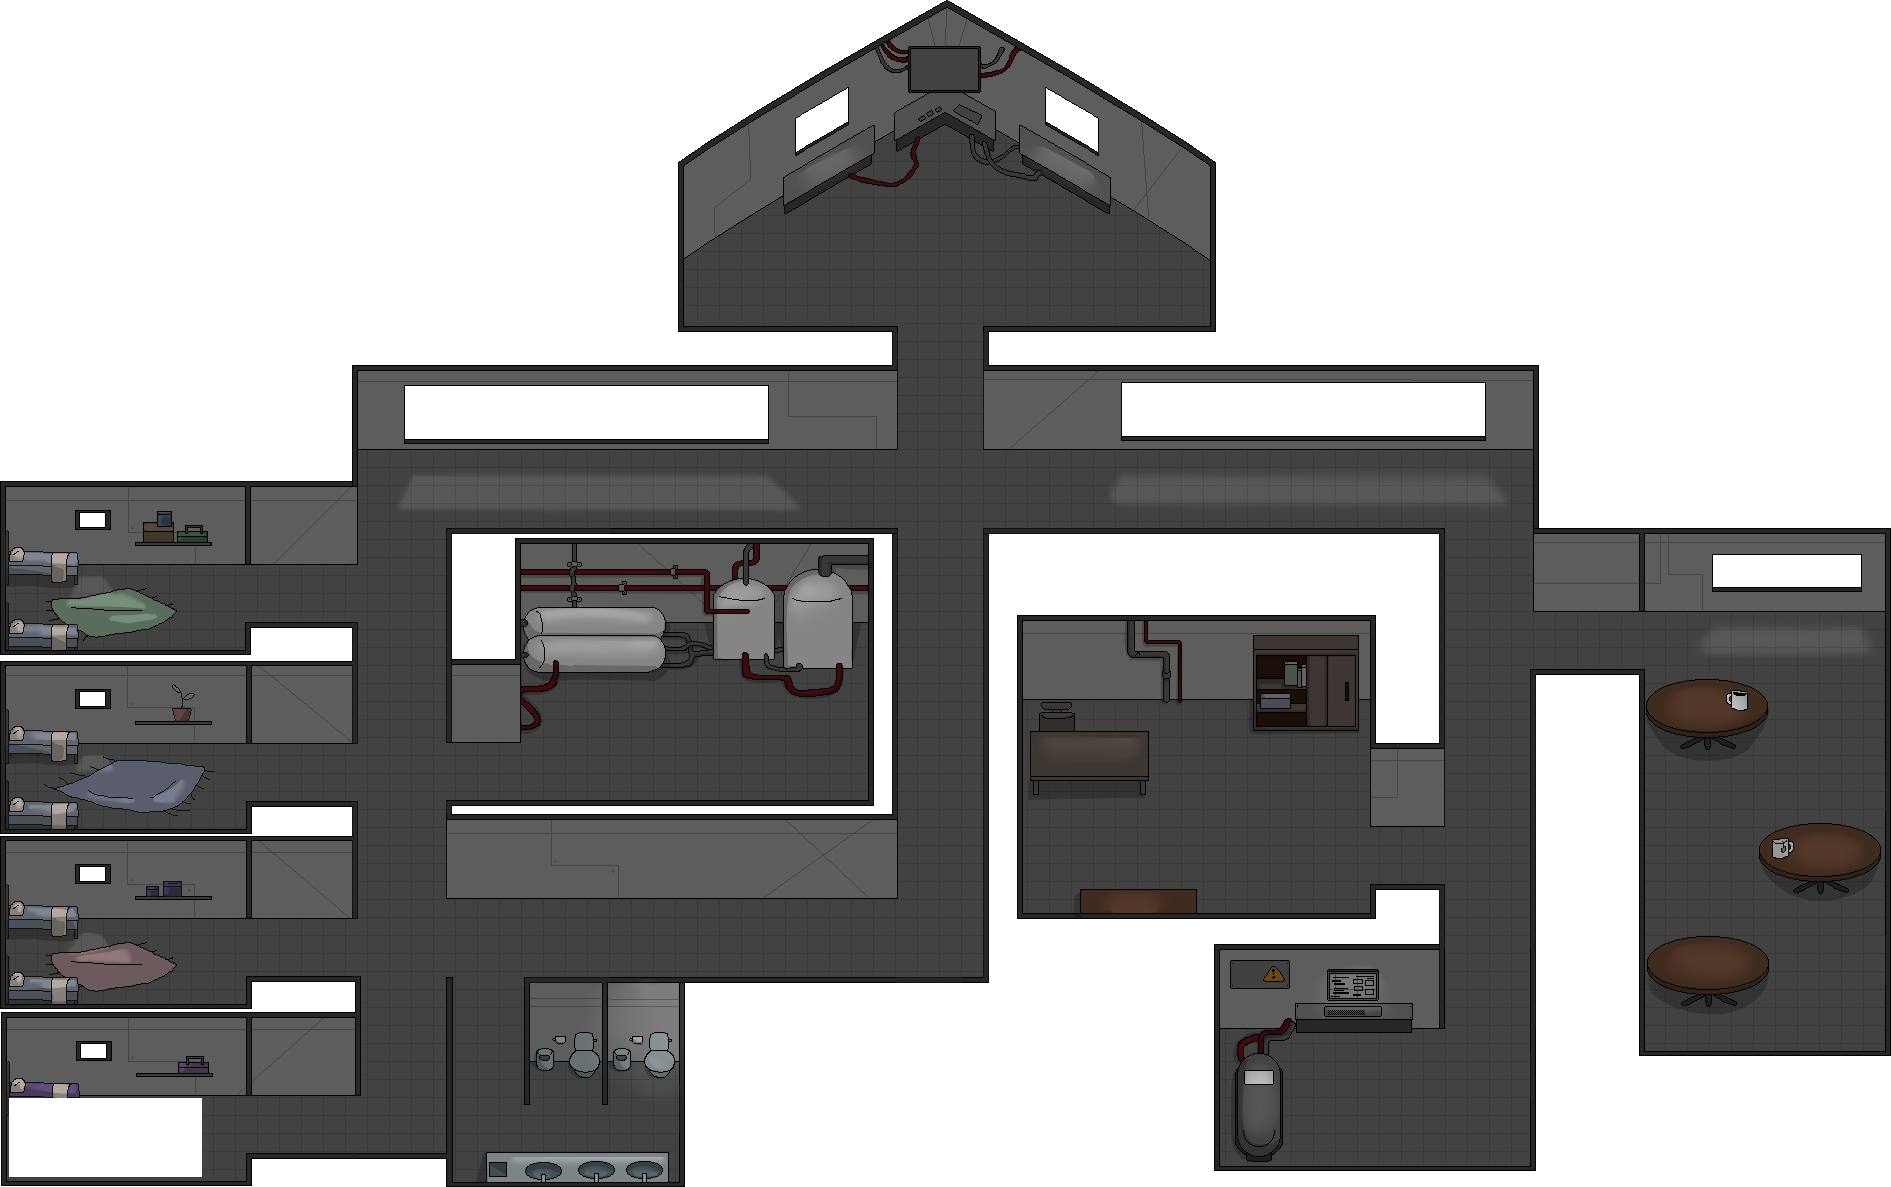
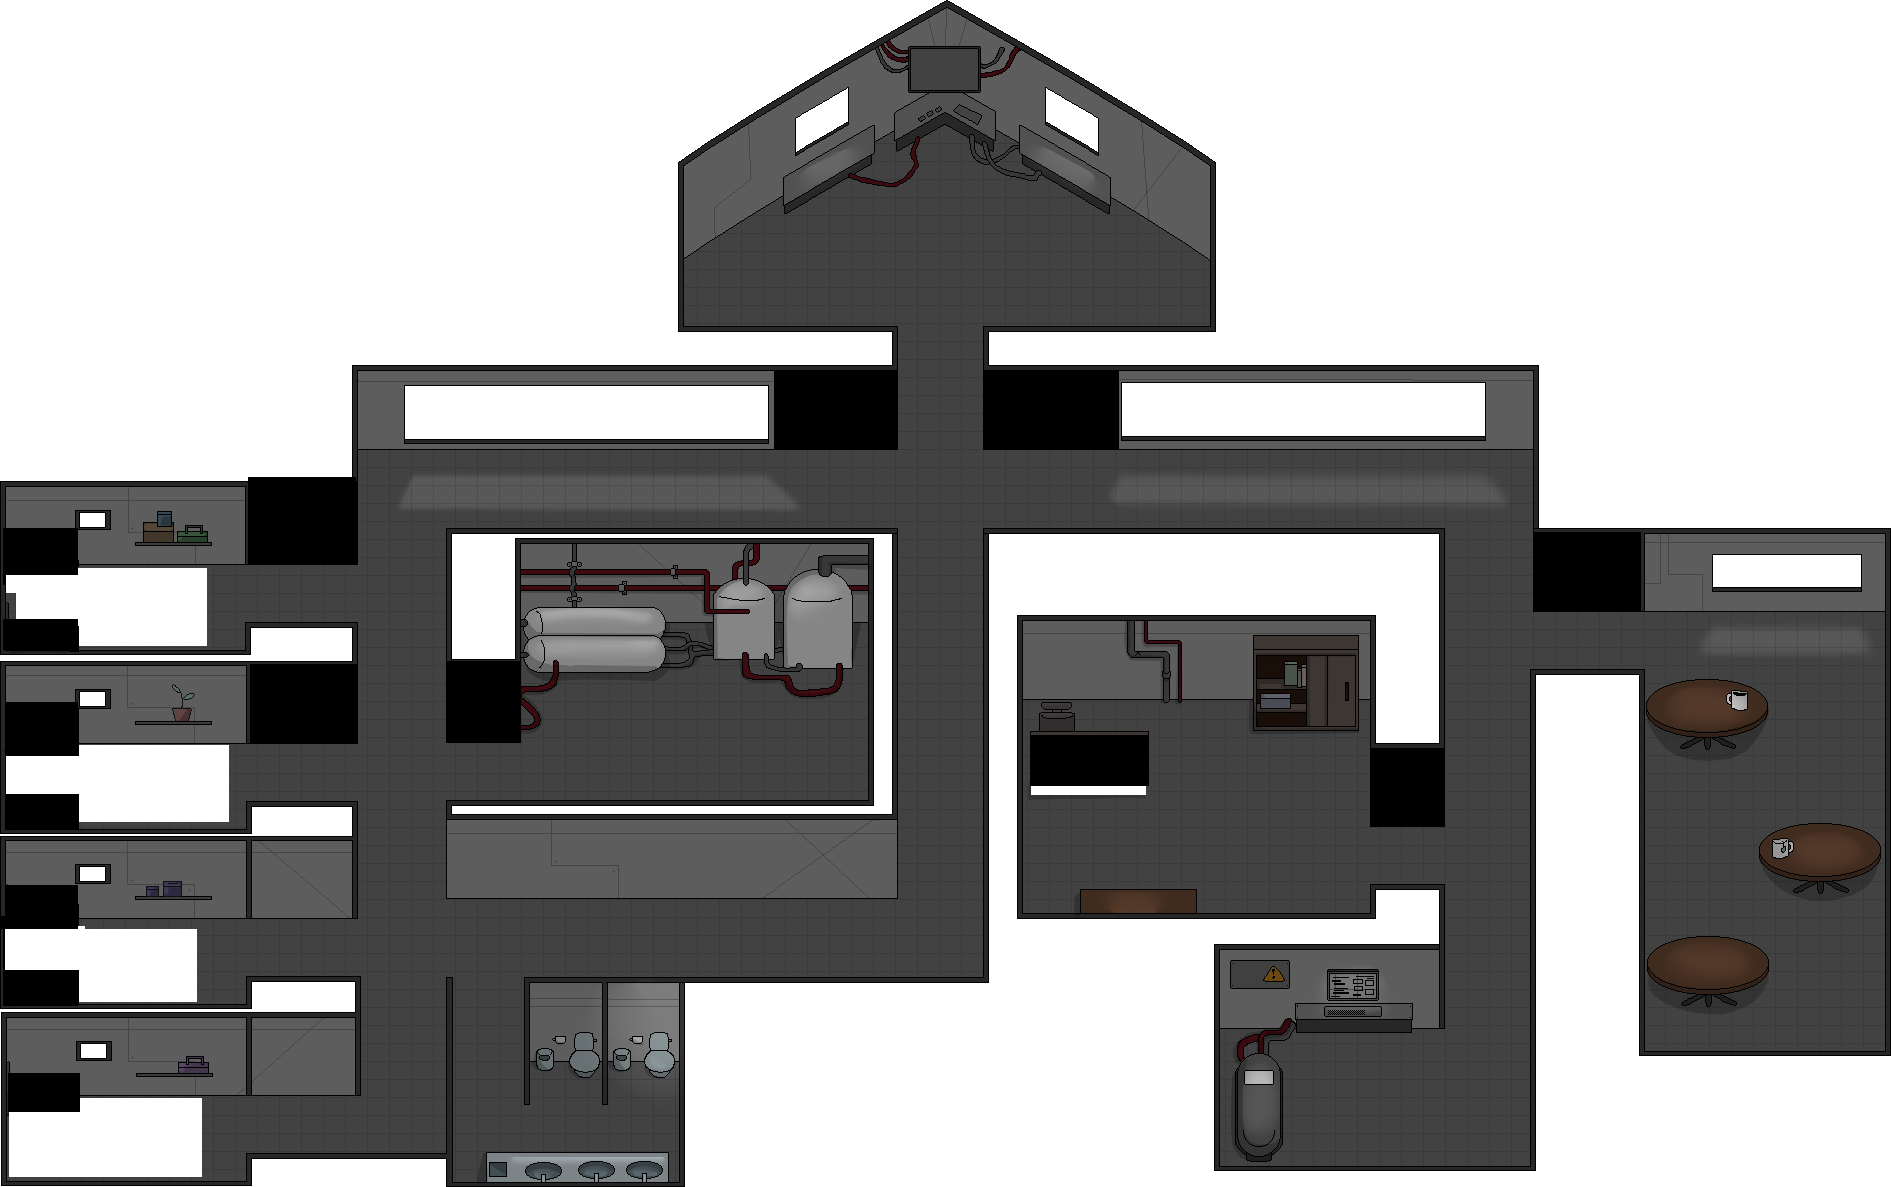
feat: mapa de colisao melhorado, colisao dos inimigos com mapa

diff --git a/src/interno/entidades/inimigos/Smilinguido/Smilinguido.cpp b/src/interno/entidades/inimigos/Smilinguido/Smilinguido.cpp
@@ -1,6 +1,7 @@
 #include "Smilinguido.hpp"
 #include "../../protagonista/protagonista.hpp"
 #include "../../../sistemas/globais.hpp"
+#include "../../../cenario/mapa.hpp"
 #include "raymath.h"
 
 Smilinguido::Smilinguido(double max, double regen, double infec, double dano)
@@ -34,8 +35,15 @@ Smilinguido::Smilinguido(double max, double regen, double infec, double dano)
             Rectangle{0,0,64,64}
         };
         AnimacaoAtual = andarBaixo;
+
+        setCaixaColisao(Rectangle{20,48,28,16});
     }
 
+void Smilinguido::Seguir(Vector2 pos){
+    Inimigo::Seguir(pos);
+
+    // FICAR STUNNED QUANDO BATER NA PAREDE
+}
 
 void Smilinguido::Ataque(){
     if(getEstado() != ATACANDO){
@@ -55,16 +63,16 @@ void Smilinguido::Update(){
 
     if(getEstado() == ATACANDO){
         setVelocidade(getVelocidade() + .2f);
-        setPosicao(getPosicao() + GetDir()* velocidade);
+        Inimigo::Seguir(getPosicao() + GetDir() * velocidade);
     }else if(getEstado() != ATACANDO){
         setVelocidade(GetMaxVelocidade());
     }
     
     if(getEstado() == ANDANDO){
-        Inimigo::SeguirPlayer(player);
+        Inimigo::Seguir(player->getPosicao());
     }
 
-    if(Vector2Distance(player->getPosicao(), getPosicao()) < 200.0f){
+    if(Vector2Distance(player->getPosicao(), getPosicao()) < 150.0f){
         Ataque();
     }else{
         setEstadoPor(ANDANDO,0);

diff --git a/src/interno/entidades/inimigos/Inimigos.cpp b/src/interno/entidades/inimigos/Inimigos.cpp
@@ -24,15 +24,16 @@ void Inimigo::Morrer(){
     // Globais::Inimigos.erase(remove(Globais::Inimigos.begin(), Globais::Inimigos.end(), this));
 }
 
-void Inimigo::SeguirPlayer(Protagonista *player)
+void Inimigo::Seguir(Vector2 pos)
 {
-    Vector2 seguindoPlayer = Vector2MoveTowards(getPosicao(), player->getPosicao(), velocidade);
+    Vector2 seguindoPlayer = Vector2MoveTowards(getPosicao(), pos, velocidade);
     Vector2 offset = Vector2Subtract(seguindoPlayer, getPosicao());
     if(!Mapa::estaCollidindo(offset, getCaixaColisao())){
         setPosicao(seguindoPlayer);
     }
+    
     // Mudar animação de acordo com sa posição do player
-    Vector2 Offset = Vector2Subtract(player->getPosicao(), getPosicao());
+    Vector2 Offset = Vector2Subtract(pos, getPosicao());
 
     if (Offset.x > 0.0f)
     {

diff --git a/src/interno/entidades/inimigos/Tripulante/Tripulante.cpp b/src/interno/entidades/inimigos/Tripulante/Tripulante.cpp
@@ -39,7 +39,7 @@ Tripulante::Tripulante(double max, double regen, double infec, double dano)
         };
         AnimacaoAtual = andarBaixo;
 
-        setCaixaColisao(Rectangle{0,32,64,32});
+        setCaixaColisao(Rectangle{16,48,32,16});
     }
 
 void Tripulante::Morrer(){
@@ -57,7 +57,7 @@ void Tripulante::Update(){
     // Seguir player
 
     if(getEstado() != STUNNED){
-        Inimigo::SeguirPlayer(player);
+        Inimigo::Seguir(player->getPosicao());
     }
 
     // Atacar se chegar perto
@@ -67,7 +67,7 @@ void Tripulante::Update(){
     }
 
     float distPlayer = Vector2Distance(player->getPosicao(), getPosicao());
-    if(distPlayer < 150.0f) Ataque();
+    if(distPlayer < 100.0f) Ataque();
     else {
         setVelocidade(GetMaxVelocidade());
         setEstadoPor(ANDANDO,0);

diff --git a/src/interno/entidades/inimigos/inimigos.hpp b/src/interno/entidades/inimigos/inimigos.hpp
@@ -37,7 +37,7 @@ class Inimigo : public Entidade{
         void TomarDano(double dano){ Vida -= dano; }
 
         virtual void Morrer();
-        virtual void SeguirPlayer(Protagonista *player);
+        virtual void Seguir(Vector2 pos);
         virtual void Ataque();
         virtual void Ataque2();
 

diff --git a/src/interno/entidades/inimigos/Smilinguido/Smilinguido.hpp b/src/interno/entidades/inimigos/Smilinguido/Smilinguido.hpp
@@ -15,6 +15,7 @@ class Smilinguido : public Inimigo{
     void SetDir(Vector2 newDir){dir = newDir;}
     Vector2 GetDir(){return dir;}
 
+    void Seguir(Vector2 pos) override;
     void Ataque() override;
     void Update() override;
     void Draw() override;